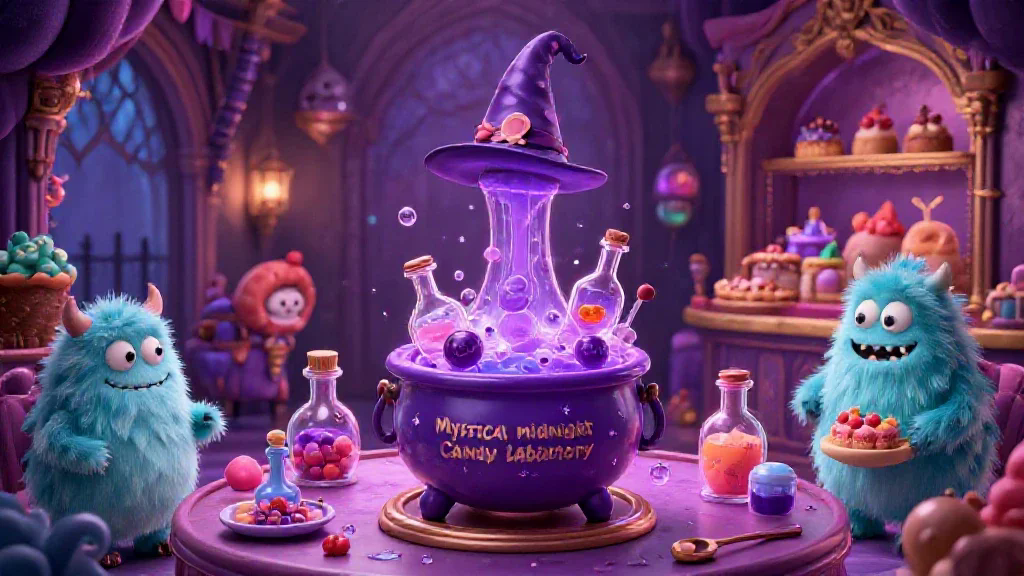
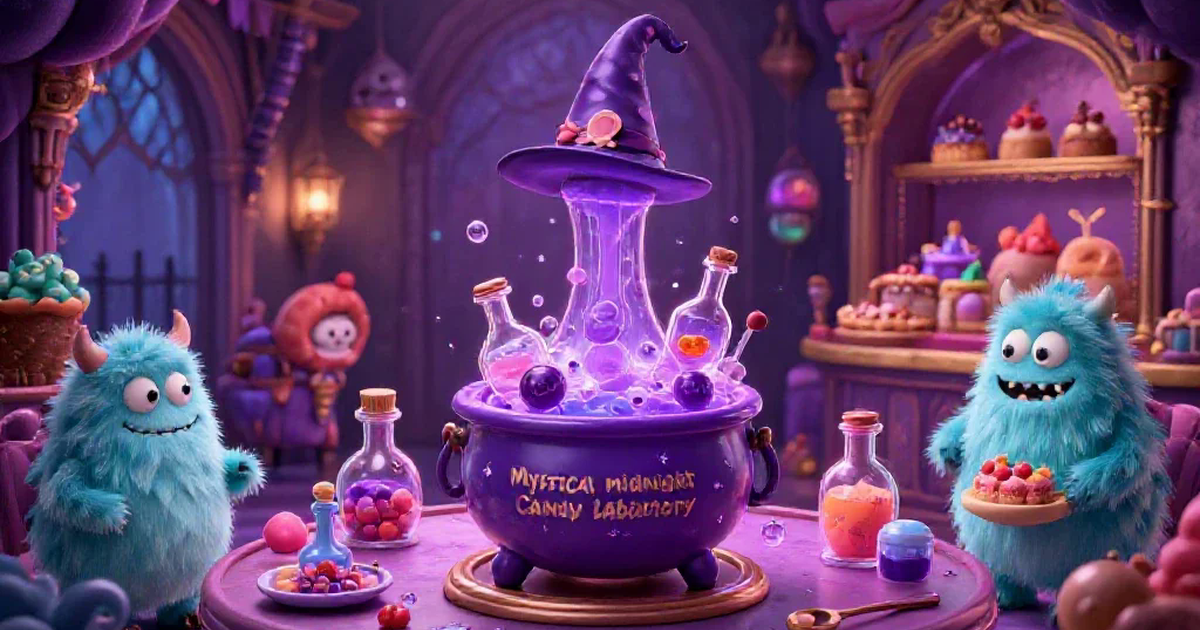
Open Graph : image 1200 x 630 et metadonnees completes

diff --git a/index.html b/index.html
@@ -9,13 +9,17 @@
     <meta property="og:type" content="website" />
     <meta property="og:title" content="Confiserie de Minuit : Sucreries Maudites : Servir les créatures sans se faire croquer" />
     <meta property="og:description" content="Confiserie de Minuit : simulation de boutique magique pour créatures de la nuit. Recettes maudites au grimoire, bonbons aux yeux baveux et clients monstres impatients." />
-    <meta property="og:image" content="https://games.hylst.fr/confiserieminuit/og-image.png" />
+    <meta property="og:image" content="https://games.hylst.fr/confiserieminuit/og-image.png?v=2" />
+    <meta property="og:image:type" content="image/png" />
+    <meta property="og:image:width" content="1200" />
+    <meta property="og:image:height" content="630" />
+    <meta property="og:image:alt" content="Confiserie de Minuit" />
     <meta property="og:url" content="https://games.hylst.fr/confiserieminuit/" />
     <meta property="og:site_name" content="Hylst.Games" />
     <meta name="twitter:card" content="summary_large_image" />
     <meta name="twitter:title" content="Confiserie de Minuit : Sucreries Maudites : Servir les créatures sans se faire croquer" />
     <meta name="twitter:description" content="Confiserie de Minuit : simulation de boutique magique pour créatures de la nuit. Recettes maudites au grimoire, bonbons aux yeux baveux et clients monstres impatients." />
-    <meta name="twitter:image" content="https://games.hylst.fr/confiserieminuit/og-image.png" />
+    <meta name="twitter:image" content="https://games.hylst.fr/confiserieminuit/og-image.png?v=2" />
     <meta name="robots" content="index, follow" />
     <link rel="canonical" href="https://games.hylst.fr/confiserieminuit/" />
     <link rel="icon" type="image/png" href="favicon.png" />
